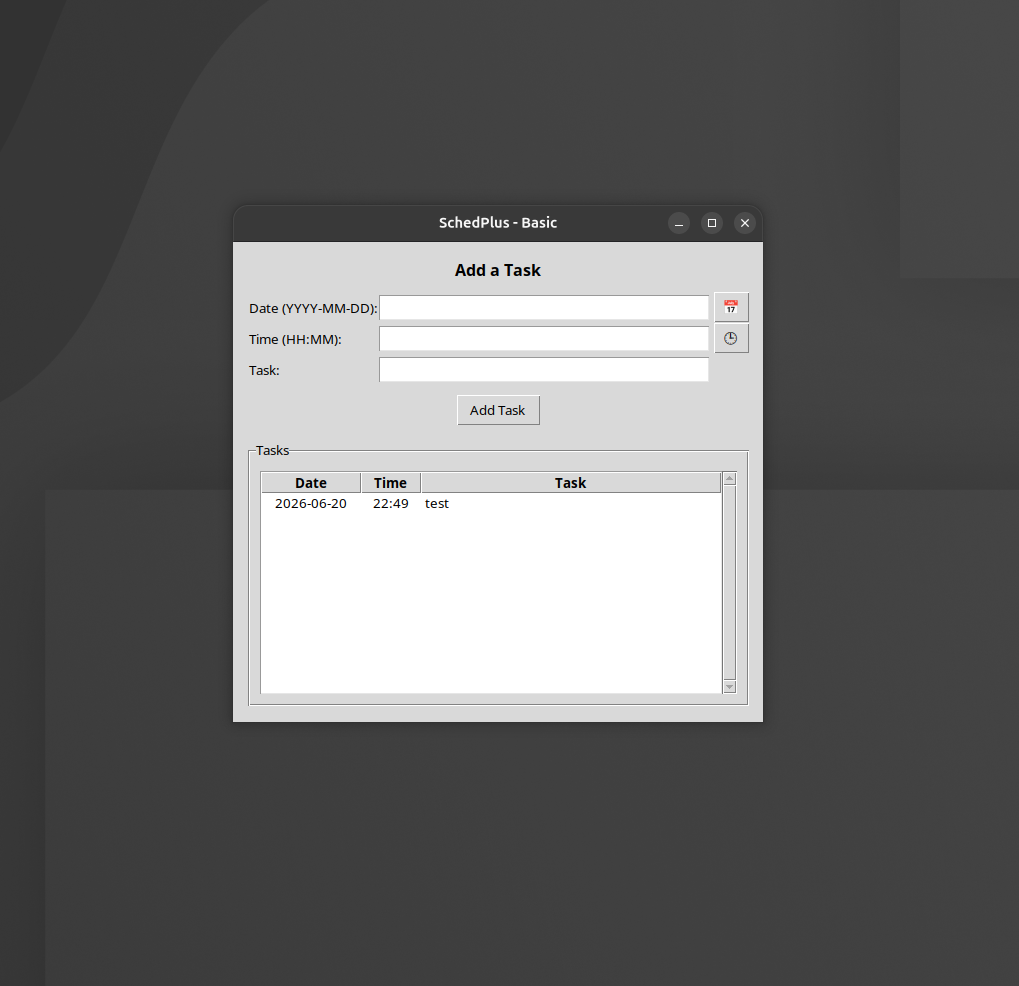
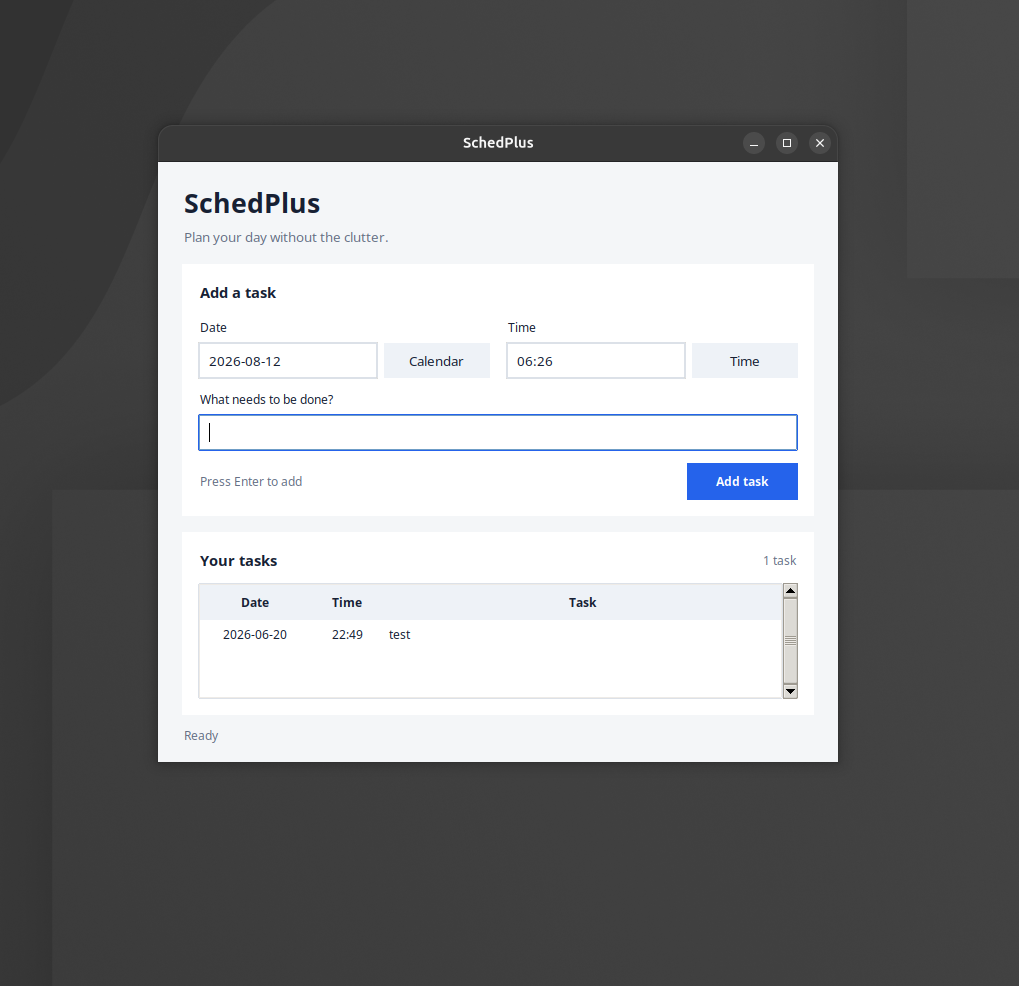
docs: modernised tkinter UI

Changed region(s): [[0.1521, 0.1217, 0.8214, 0.7911], [0.3346, 0.6085, 0.3651, 0.6694], [0.5476, 0.6085, 0.578, 0.6389]]

diff --git a/CHANGELOG.md b/CHANGELOG.md
@@ -6,3 +6,5 @@
   added automatic relocation of databases created by earlier releases.
 - Removed the obsolete JSON persistence backend and migration fallback. SQLite
   is now the sole task storage system.
+- Refreshed the lightweight Tkinter interface with a responsive layout,
+  friendlier date and time entry, task counts, and visible status feedback.
